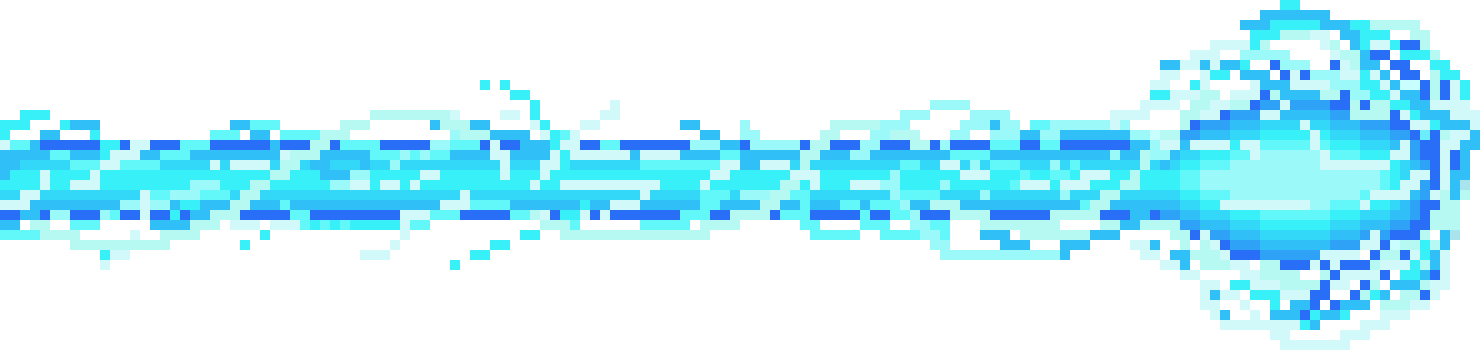
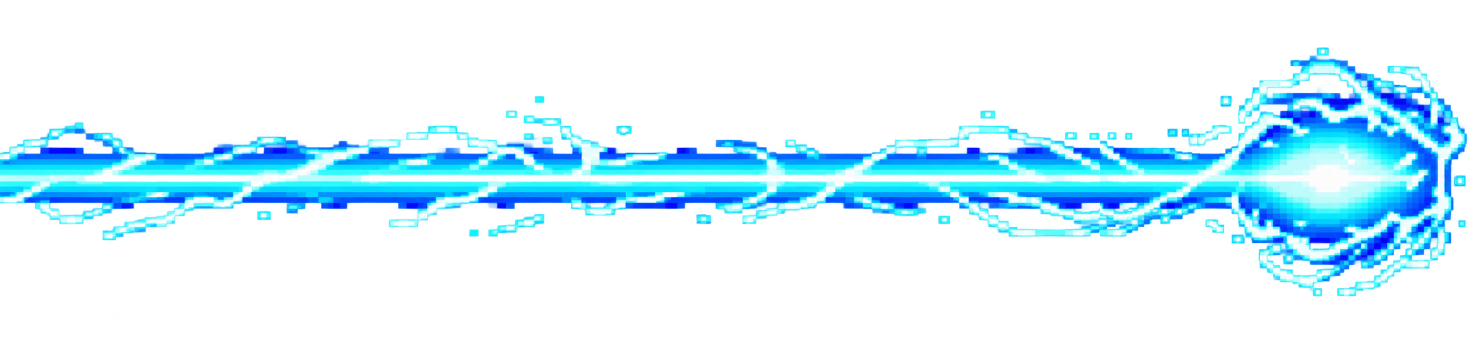
rework laser beam

diff --git a/src/scenes/GameScene.ts b/src/scenes/GameScene.ts
@@ -587,22 +587,6 @@ export class GameScene extends Phaser.Scene {
         )
 
         // =========================================
-        // SUPER SHOTS
-        // =========================================
-
-        this.physics.add.overlap(
-            this.superShots,
-            this.blackHoleGroup,
-            (shotObject) => {
-                const shot = shotObject as LaserBeam
-
-                if (shot.active) {
-                    shot.destroy()
-                }
-            }
-        )
-
-        // =========================================
         // EXPLOSION SHOT
         // =========================================
 

diff --git a/src/entities/LaserBeam.ts b/src/entities/LaserBeam.ts
@@ -49,7 +49,10 @@ export class LaserBeam extends Phaser.Physics.Arcade.Sprite {
     }
 
     private followPlayer() {
-        this.direction.copy(this.player.getMovementDirection())
+        this.direction.set(
+            Math.sin(this.player.rotation),
+            -Math.cos(this.player.rotation)
+        )
 
         this.setPosition(
             this.player.x + this.direction.x * this.beamOffset,

diff --git a/src/entities/Player.ts b/src/entities/Player.ts
@@ -436,10 +436,6 @@ export class Player extends Phaser.Physics.Arcade.Sprite {
         )
     }
 
-    getMovementDirection(): Phaser.Math.Vector2 {
-        return this.movementDirection
-    }
-
     setRotationLocked(locked: boolean) {
         this.rotationLocked = locked
     }

diff --git a/src/main.ts b/src/main.ts
@@ -22,7 +22,7 @@ const config: Phaser.Types.Core.GameConfig = {
         default: 'arcade',
         arcade: {
             gravity: {x: 0, y: 0 },
-            debug: false
+            debug: true
         }
     },
 

diff --git a/src/config/gameplay/weapons.ts b/src/config/gameplay/weapons.ts
@@ -14,7 +14,7 @@ export const SUPER_SHOT_CONFIG = {
     },
     laser: {
         damage: 80,
-        activeTimeMs: 1000,
+        activeTimeMs: 3000,
         offsetFromPlayer: 340
     },
     round: {
